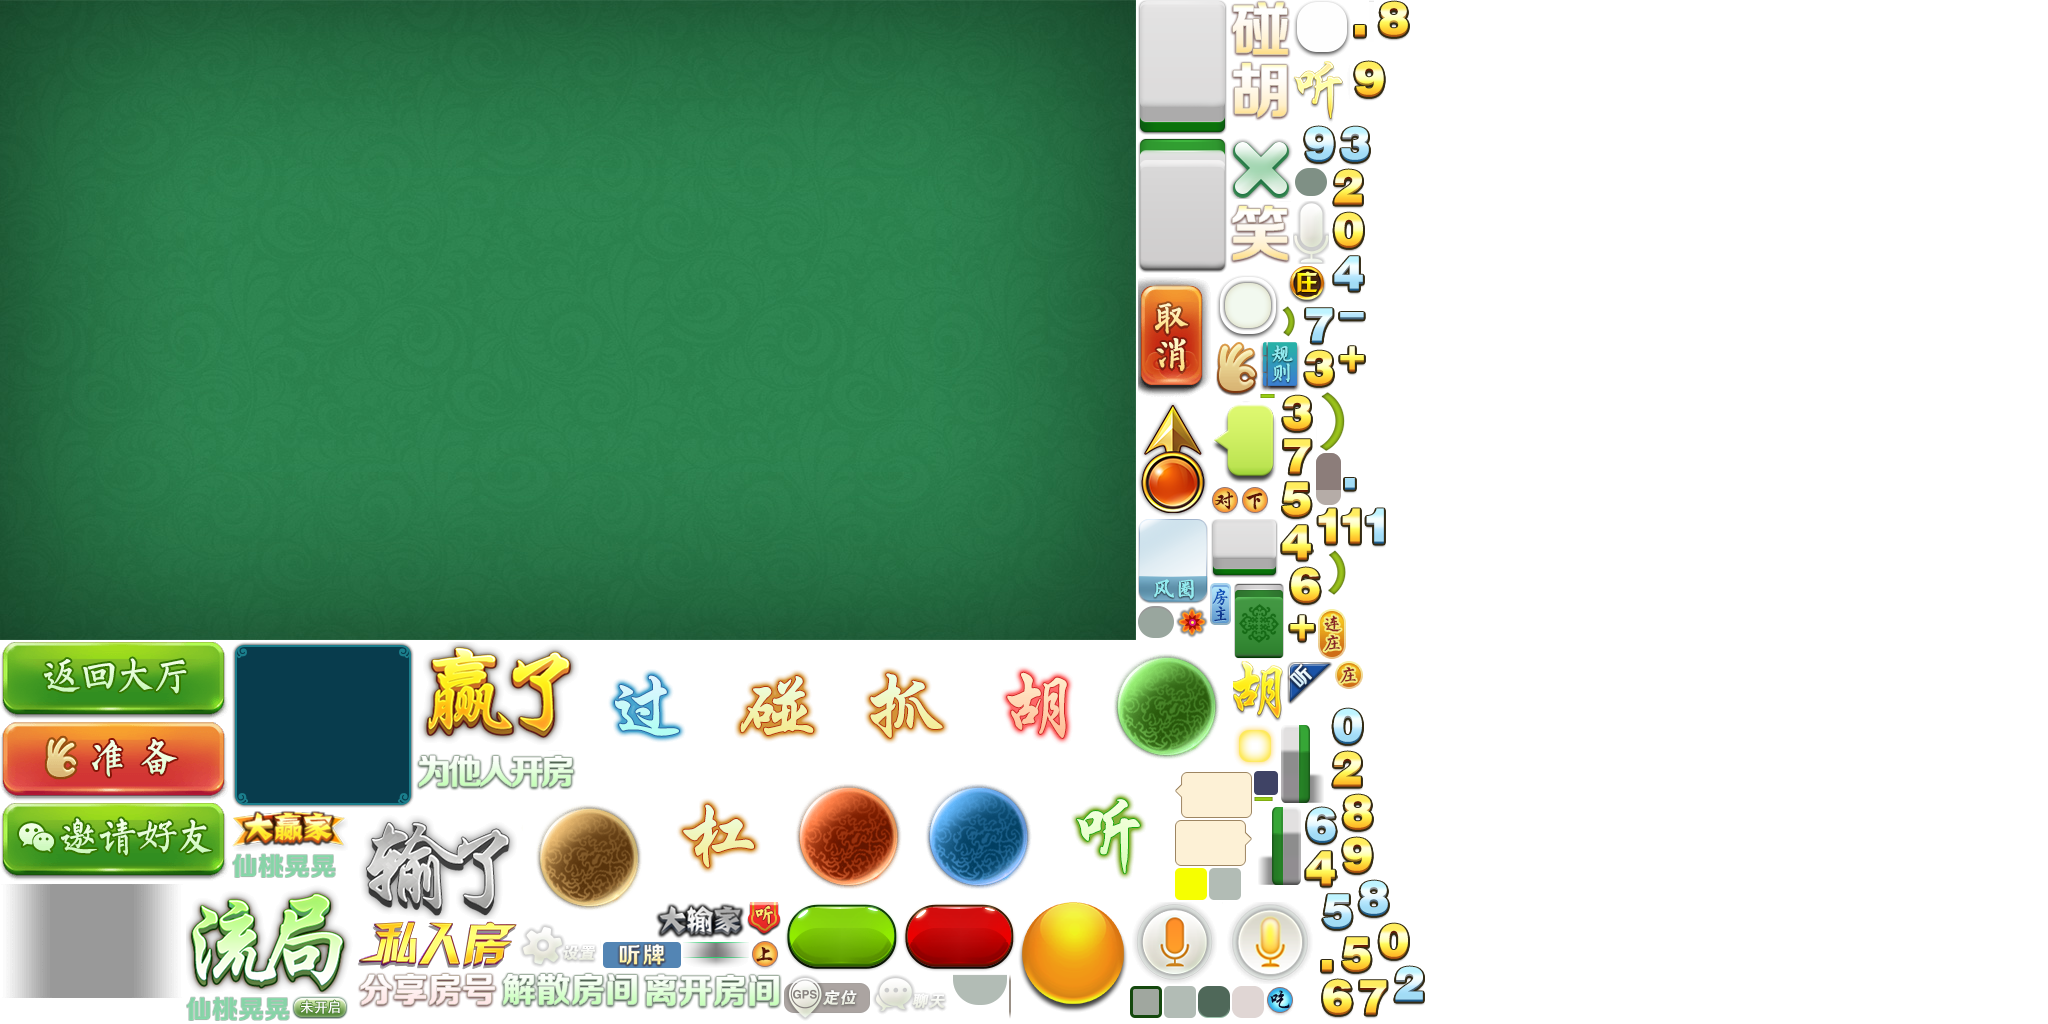
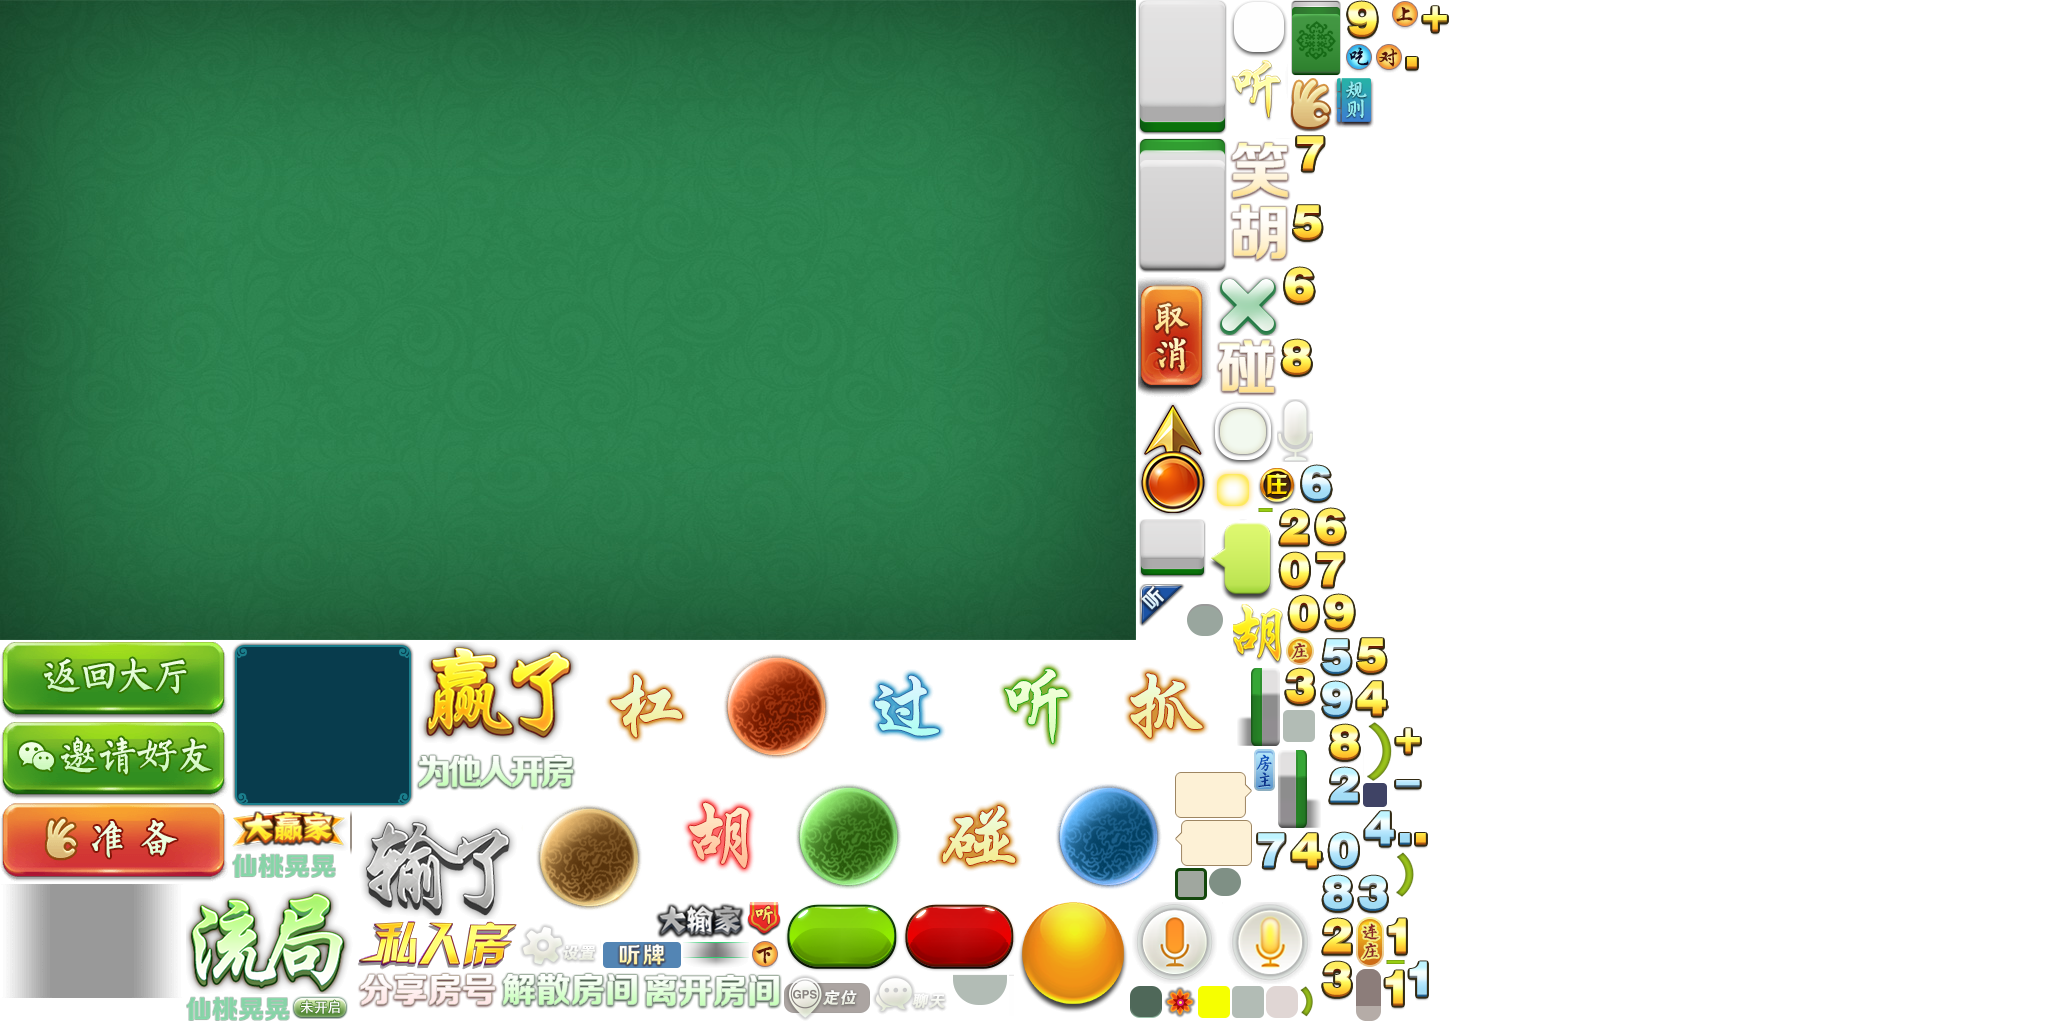
删除一些东西和bug

Changed region(s): [[0.2812, 0.0, 0.7188, 1.0], [0.0, 0.6875, 0.125, 0.875]]

diff --git a/assets/Script/modules/gamea/HandResultViewA.ts b/assets/Script/modules/gamea/HandResultViewA.ts
@@ -153,8 +153,6 @@ export class HandResultViewA extends cc.Component {
         this.countDown = againBtn.getChild("n1");
         this.countDown.text = `${msgHandOver.time} ${btnText}`;
 
-        const infoBtn = this.unityViewNode.getChild("guizeBtn");
-        infoBtn.onClick(this.onRoomRuleBtnClick, this);
         const shanreBtn = this.unityViewNode.getChild("shanreBtn");
         shanreBtn.visible = cc.sys.platform === cc.sys.WECHAT_GAME;
         shanreBtn.onClick(this.onShareButtonClick, this);
@@ -547,15 +545,7 @@ export class HandResultViewA extends cc.Component {
     private onShareButtonClick(): void {
         Share.shareGame(this.eventTarget, Share.ShareSrcType.GameShare, Share.ShareMediaType.Image, Share.ShareDestType.Friend);
     }
-    private onRoomRuleBtnClick(): void {
-        let roomRuleView = this.getComponent(RoomRuleViewA);
 
-        if (roomRuleView === undefined || roomRuleView == null) {
-            roomRuleView = this.addComponent(RoomRuleViewA);
-        }
-        // roomRuleView.updateView(this.room.roomInfo.config);
-        // TODO: 显示游戏规则
-    }
     // 玩家点击“继续”按钮，注意如果牌局结束，此按钮是“大结算”
     private onAgainButtonClick(): void {
         Logger.debug("onAgainButtonClick");

diff --git a/assets/Script/modules/gameb/HandResultView.ts b/assets/Script/modules/gameb/HandResultView.ts
@@ -152,8 +152,6 @@ export class HandResultView extends cc.Component {
         this.countDown = againBtn.getChild("n1");
         this.countDown.text = `${msgHandOver.time} ${btnText}`;
 
-        const infoBtn = this.unityViewNode.getChild("guizeBtn");
-        infoBtn.onClick(this.onRoomRuleBtnClick, this);
         const shanreBtn = this.unityViewNode.getChild("shanreBtn");
         shanreBtn.visible = cc.sys.platform === cc.sys.WECHAT_GAME;
         shanreBtn.onClick(this.onShareButtonClick, this);
@@ -547,15 +545,7 @@ export class HandResultView extends cc.Component {
     private onShareButtonClick(): void {
         Share.shareGame(this.eventTarget, Share.ShareSrcType.GameShare, Share.ShareMediaType.Image, Share.ShareDestType.Friend);
     }
-    private onRoomRuleBtnClick(): void {
-        let roomRuleView = this.getComponent(RoomRuleView);
 
-        if (roomRuleView === undefined || roomRuleView == null) {
-            roomRuleView = this.addComponent(RoomRuleView);
-        }
-        // roomRuleView.updateView(this.room.roomInfo.config);
-        // TODO: 显示游戏规则
-    }
     // 玩家点击“继续”按钮，注意如果牌局结束，此按钮是“大结算”
     private onAgainButtonClick(): void {
         Logger.debug("onAgainButtonClick");

diff --git a/assets/Script/modules/gamea/RoomViewA.ts b/assets/Script/modules/gamea/RoomViewA.ts
@@ -501,16 +501,6 @@ export class RoomViewA {
     //     // )
     // }
 
-    private onRoomRuleBtnClick(): void {
-        let roomRuleView = this.component.getComponent(RoomRuleViewA);
-
-        if (roomRuleView === undefined || roomRuleView == null) {
-            roomRuleView = this.component.addComponent(RoomRuleViewA);
-        }
-        // roomRuleView.updateView(this.room.roomInfo.config);
-        // TODO: 显示游戏规则
-    }
-
     private onGPSBtnClick(): void {
         Logger.debug("onGPSBtnClick");
 
@@ -583,10 +573,6 @@ export class RoomViewA {
         // }
 
         this.settingBtn.onClick(this.onSettingBtnClick, this);
-
-        const infoBtn = this.unityViewNode.getChild("guizeBtn");
-        //infoBtn.visible = true;
-        infoBtn.onClick(this.onRoomRuleBtnClick, this);
 
         this.readyButton = this.unityViewNode.getChild("ready").asButton;
         this.readyButton.visible = false;

diff --git a/assets/Script/modules/gameb/RoomView.ts b/assets/Script/modules/gameb/RoomView.ts
@@ -503,16 +503,6 @@ export class RoomView {
     //     // )
     // }
 
-    private onRoomRuleBtnClick(): void {
-        let roomRuleView = this.component.getComponent(RoomRuleView);
-
-        if (roomRuleView === undefined || roomRuleView == null) {
-            roomRuleView = this.component.addComponent(RoomRuleView);
-        }
-        // roomRuleView.updateView(this.room.roomInfo.config);
-        // TODO: 显示游戏规则
-    }
-
     private onGPSBtnClick(): void {
         Logger.debug("onGPSBtnClick");
 
@@ -585,10 +575,6 @@ export class RoomView {
         // }
 
         this.settingBtn.onClick(this.onSettingBtnClick, this);
-
-        const infoBtn = this.unityViewNode.getChild("guizeBtn");
-        //infoBtn.visible = true;
-        infoBtn.onClick(this.onRoomRuleBtnClick, this);
 
         this.readyButton = this.unityViewNode.getChild("ready").asButton;
         this.readyButton.visible = false;

diff --git a/assets/Script/modules/lobby/views/NewRoomView.ts b/assets/Script/modules/lobby/views/NewRoomView.ts
@@ -638,6 +638,8 @@ export class NewRoomView extends cc.Component {
     }
 
     private onCreateRoomBtnClick(): void {
+        // 当存在弹窗时，立刻dispose弹窗
+        Dialog.hidePrompt();
         const playerID = DataStore.getString("playerID");
         const myUser = { userID: playerID };
 

diff --git a/assets/Script/modules/gamea/GameModuleA.ts b/assets/Script/modules/gamea/GameModuleA.ts
@@ -253,7 +253,6 @@ export class GameModuleA extends cc.Component implements GameModuleInterface {
         }
 
         if (this.mRoom !== null) {
-            this.mRoom.onDestroy();
             this.mRoom = null;
         }
 
